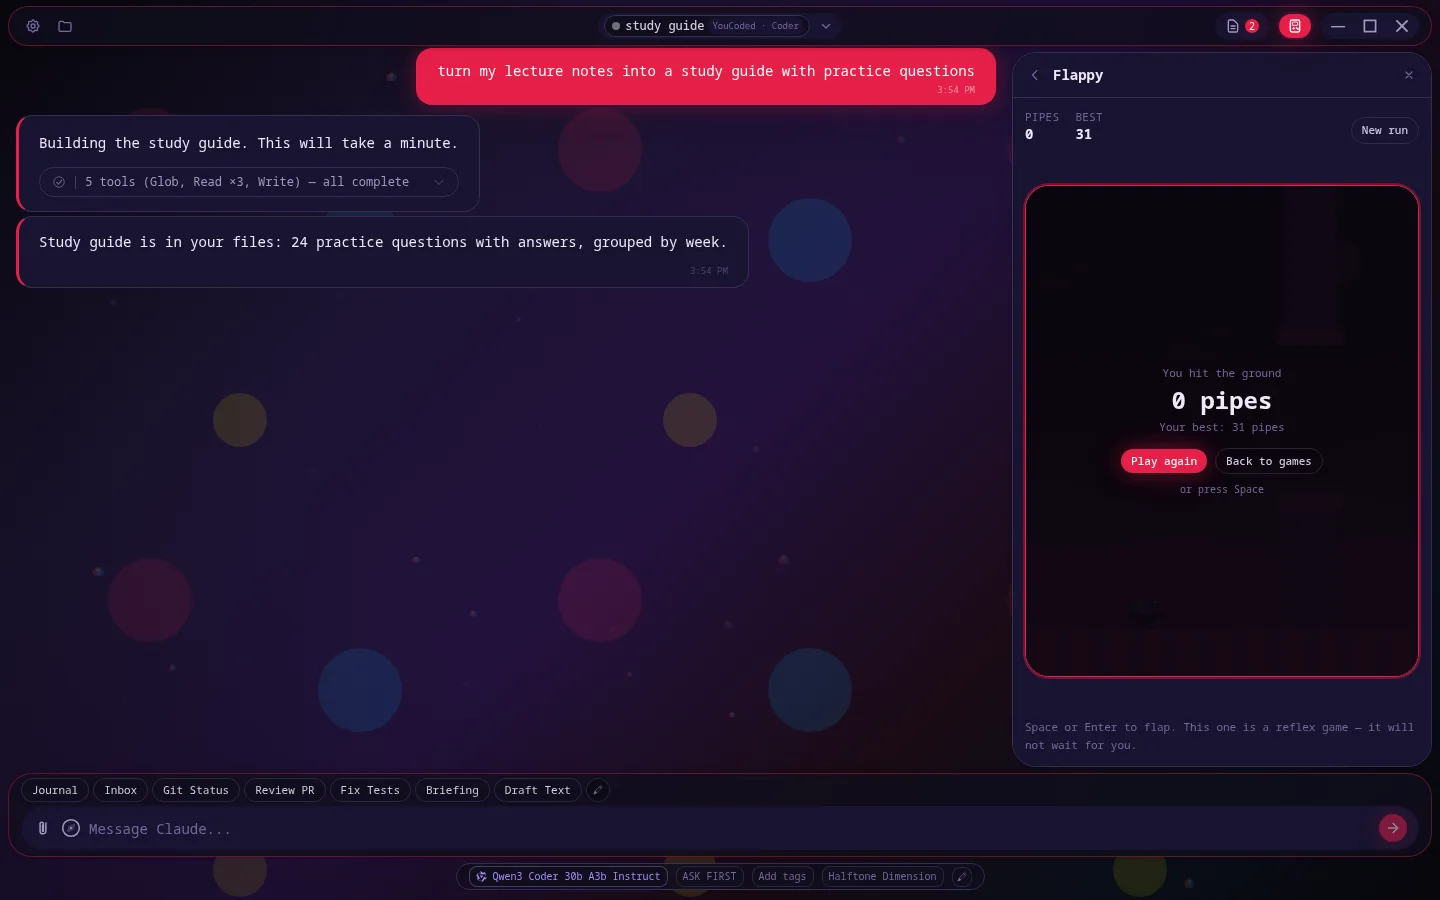
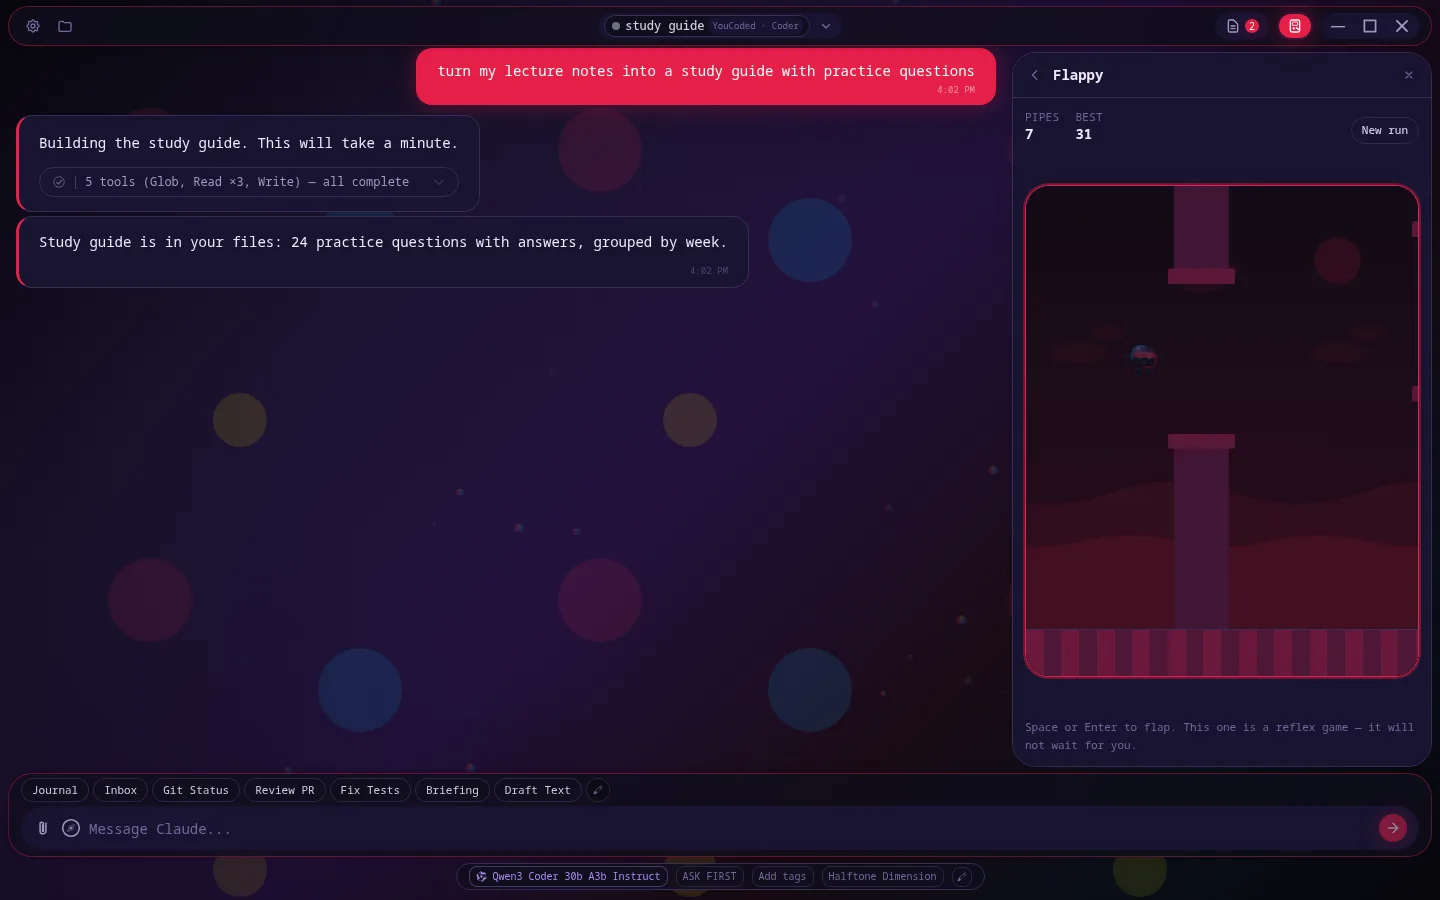
feat(promo): Flappy is flown by an in-page pilot (evalFile), not by polling over CDP — 7 pipes in 10 s
The recorder-side autopilot reacted 30–60 ms late and never got past one pipe
in ten takes. A requestAnimationFrame loop inside the page sees the bird every
frame, computes the flap rule from the engine's own numbers (18.8-unit rise,
38-unit gap, 4.6 hit radius → flap 8 units below the gap centre), and dispatches
the same Space keydown a player would. record.mjs gains `evalFile` so the
pilot can stay a commented file beside the scene; film.sh's review page now
lists every scene even on a partial re-film.

Claude-Session: https://claude.ai/code/session_01LuDdEgpNBa7Qsw4BoyXQZ2

diff --git a/scripts/ui-review/scenes/flappy-pilot.js b/scripts/ui-review/scenes/flappy-pilot.js
@@ -1,0 +1,53 @@
+// In-page autopilot for the Flappy beat of the promo (scripts/ui-review/scenes/promo-flappy.json
+// injects this with an `eval` action, then `hold`s while it flies).
+//
+// Why in-page: polling from the recorder over CDP reacts 30–60 ms late and the
+// game punishes that — three afternoons of tuning never got past one pipe. A
+// requestAnimationFrame loop inside the page sees the bird every frame and
+// flaps by dispatching the same Space keydown the player would, so the game
+// code path is exactly the real one.
+//
+// The rule comes from the engine's numbers (flappy-engine.ts): a flap always
+// rises 18.8 units (flapVelocity² / 2·gravity) inside a 38-unit gap with a
+// 4.6-unit hit radius, so the bird's centre must stay within ±14.4 of the gap
+// centre. Flapping at +8 below centre tops out at −10.8: both inside the band,
+// with room for one frame of detection lag at terminal velocity (≈5 units).
+(() => {
+  const f = document.querySelector("[data-game-keys='space']");
+  if (!f) return 'pilot: no field';
+  const WORLD_H = 125;                       // engine units, y down from the ceiling
+  const MARGIN = 8;                          // flap when this far below the gap centre
+  const COOLDOWN = 120;                      // ms between flaps (a flap takes 270 ms to top out)
+  const px = f.getBoundingClientRect().height / WORLD_H;
+  const bird = () => [...f.querySelectorAll('div')].find((d) => d.style.willChange === 'transform' && d.querySelector('svg'));
+  const flap = () => f.dispatchEvent(new KeyboardEvent('keydown', { key: ' ', code: 'Space', bubbles: true, cancelable: true }));
+  const st = (window.__pilot = { on: true, frames: 0, flaps: 0, log: [] });
+  let prevY = null, prevT = null, lastFlap = -1e9;
+  function tick(t) {
+    if (!st.on) return;
+    st.frames++;
+    const b = bird();
+    if (b) {
+      const fr = f.getBoundingClientRect(), br = b.getBoundingClientRect();
+      const y = (br.top + br.height / 2 - fr.top) / px;
+      const v = prevY == null ? 0 : (y - prevY) / ((t - prevT) / 1000);
+      prevY = y; prevT = t;
+      // The next gap: the nearest visible pipe pair whose right edge is still ahead of the bird.
+      let target = null, left = Infinity;
+      for (const s of f.children) {
+        if (s.children.length !== 2 || s.style.visibility !== 'visible') continue;
+        const a = s.children[0].getBoundingClientRect(), c = s.children[1].getBoundingClientRect();
+        if (a.width === 0 || a.right < br.left) continue;
+        if (a.left < left) { left = a.left; target = ((Math.min(a.bottom, c.bottom) + Math.max(a.top, c.top)) / 2 - fr.top) / px; }
+      }
+      const want = st.flaps === 0                                   // the first flap starts the run
+        || (target != null && v >= 0 && y > target + MARGIN)
+        || (target == null && v >= 0 && y > WORLD_H * 0.45);
+      if (want && t - lastFlap > COOLDOWN) { flap(); lastFlap = t; st.flaps++; }
+      if (st.log.length < 2000) st.log.push([Math.round(t), +y.toFixed(1), target == null ? null : +target.toFixed(1), want ? 1 : 0]);
+    }
+    requestAnimationFrame(tick);
+  }
+  requestAnimationFrame(tick);
+  return 'pilot: on';
+})();

diff --git a/scripts/ui-review/README.md b/scripts/ui-review/README.md
@@ -122,6 +122,7 @@ scripts/ui-review/scenes/row2-does-things.json
 | `hold` | keep recording for N ms; `settle` on any action is the pause after it |
 | `autopilot` (`ms`, `when`, `key`, `every`, `minGap`) | poll `when` (a JS expression evaluated in the page) every `every` ms for `ms` ms and press `key` when it is true — the recorder "plays" a game by reading the DOM. (Not `autoplay`: that is the workbench's own `?autoplay=<ms>` URL switch, which auto-sends the first message.) |
 | `mark` (on any action) | a label for this action in `<out>.marks.json`, which lists every action's start/end in video seconds — a timeline trims to a label, never to a hand-measured frame |
+| `evalFile` | like `eval`, but the JavaScript is read from a file next to the scene — for a page-side script too long to live in one JSON string (the Flappy pilot, `scenes/flappy-pilot.js`) |
 
 Scene-level `fps` (default 24) sets the encode frame rate — the promo films at 30 so no
 frame is doubled in a 30 fps edit.
